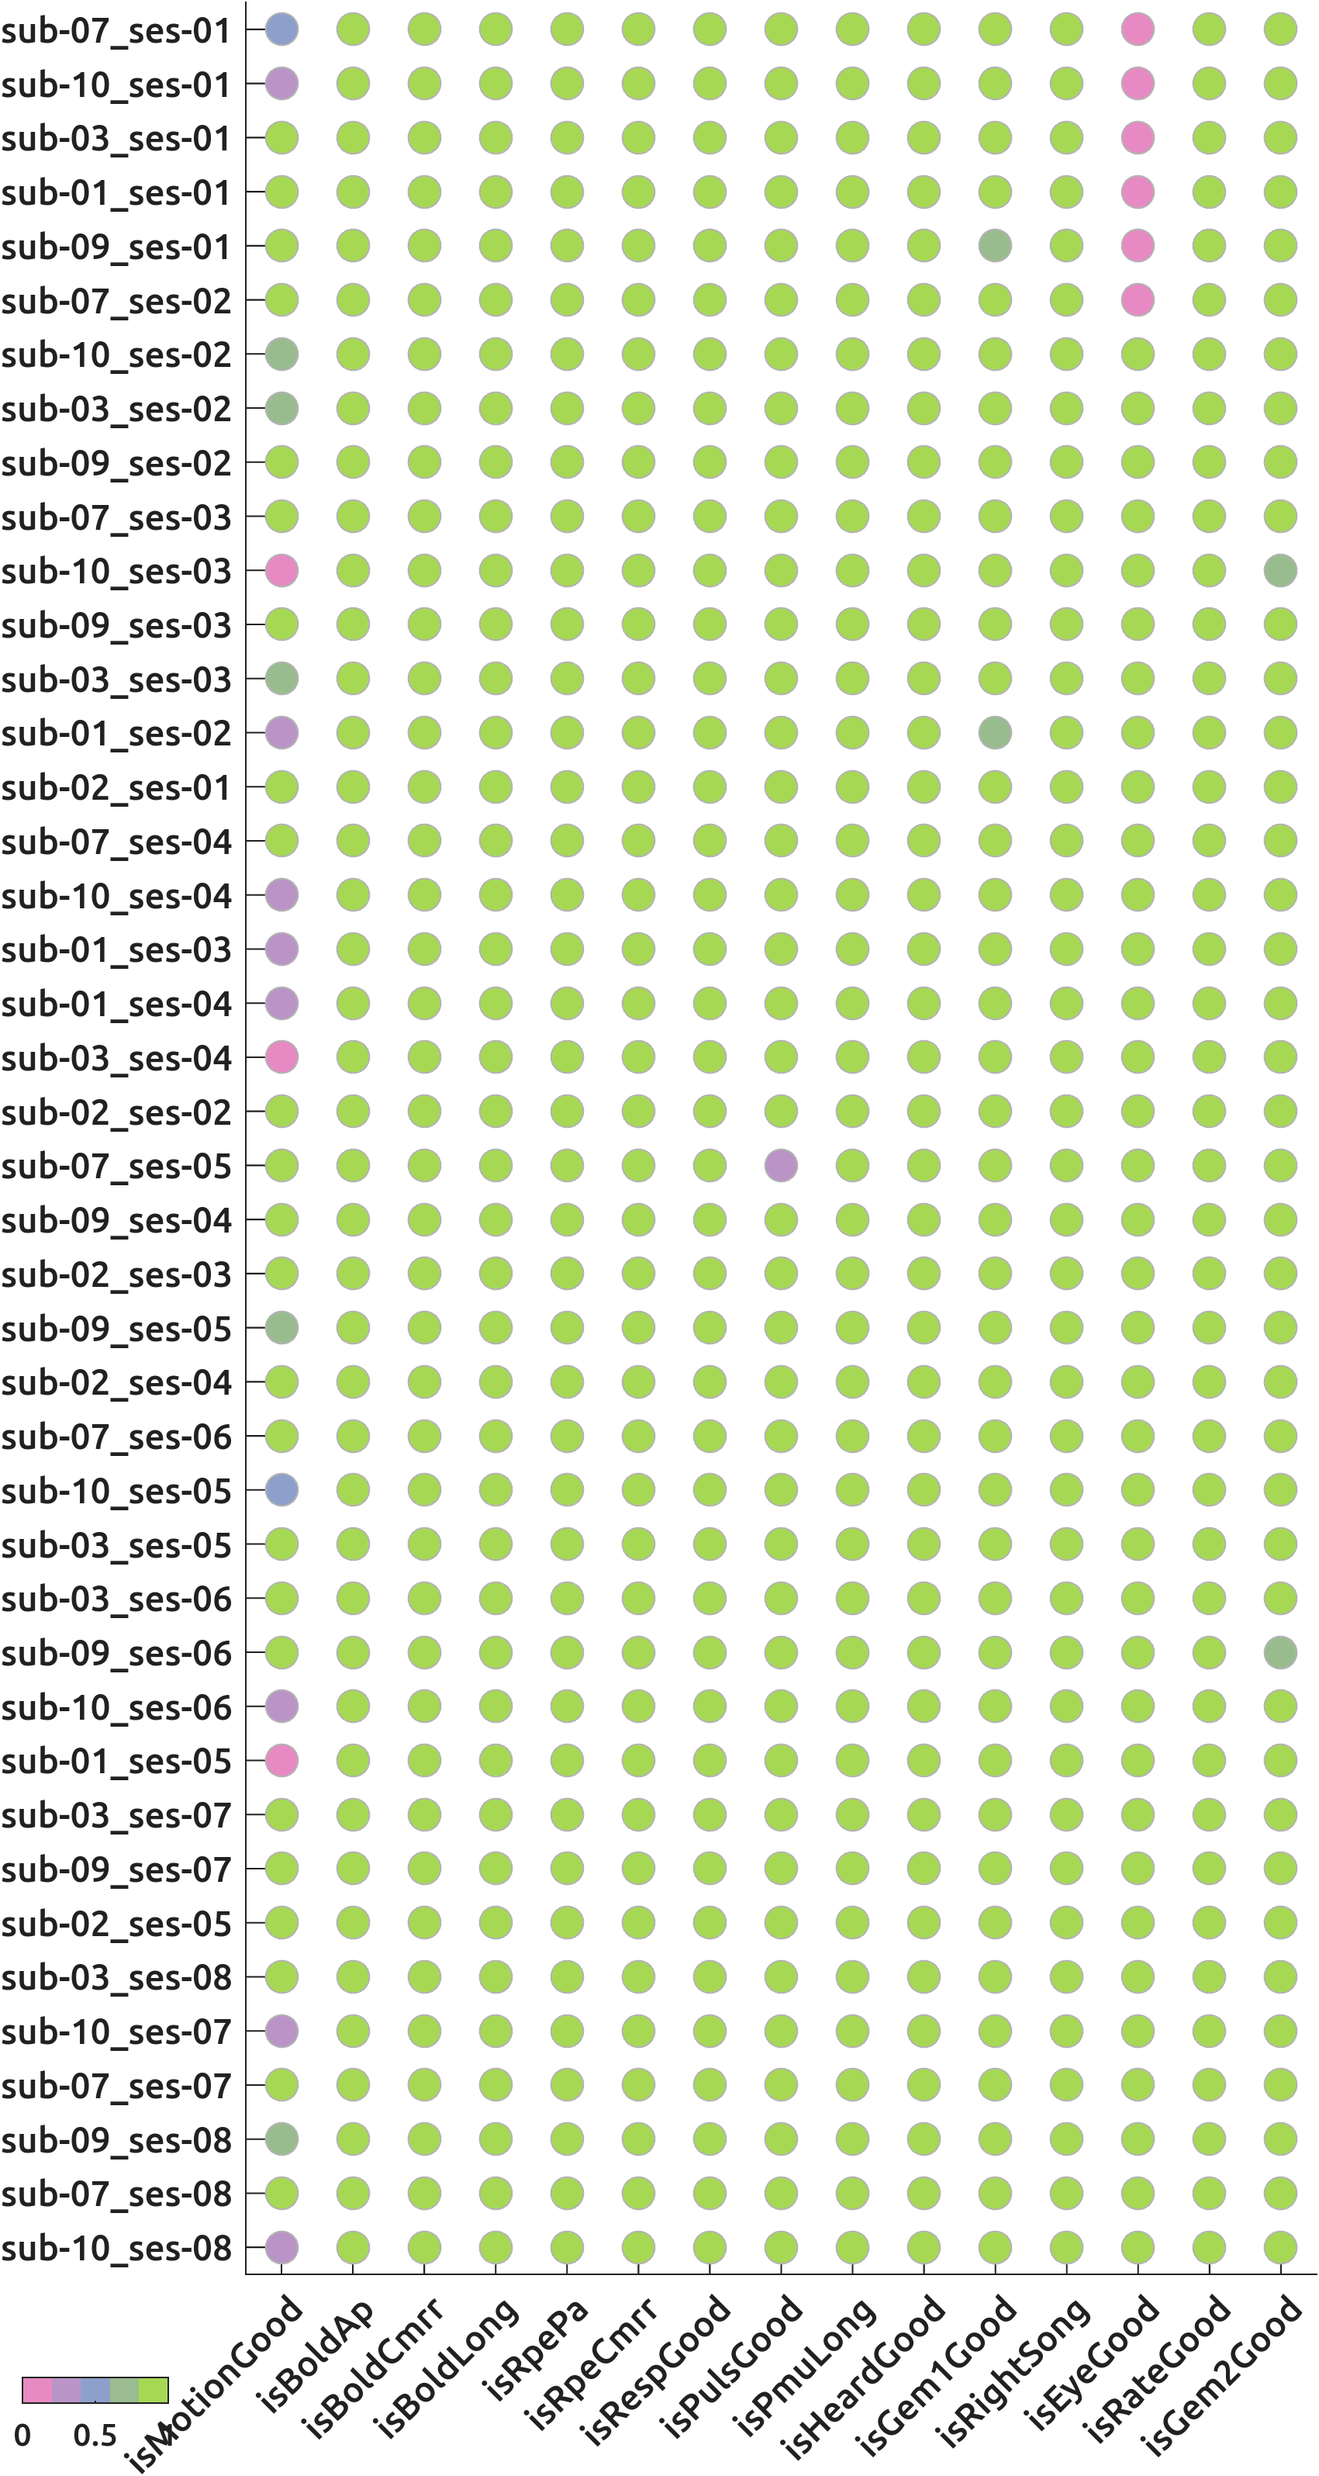
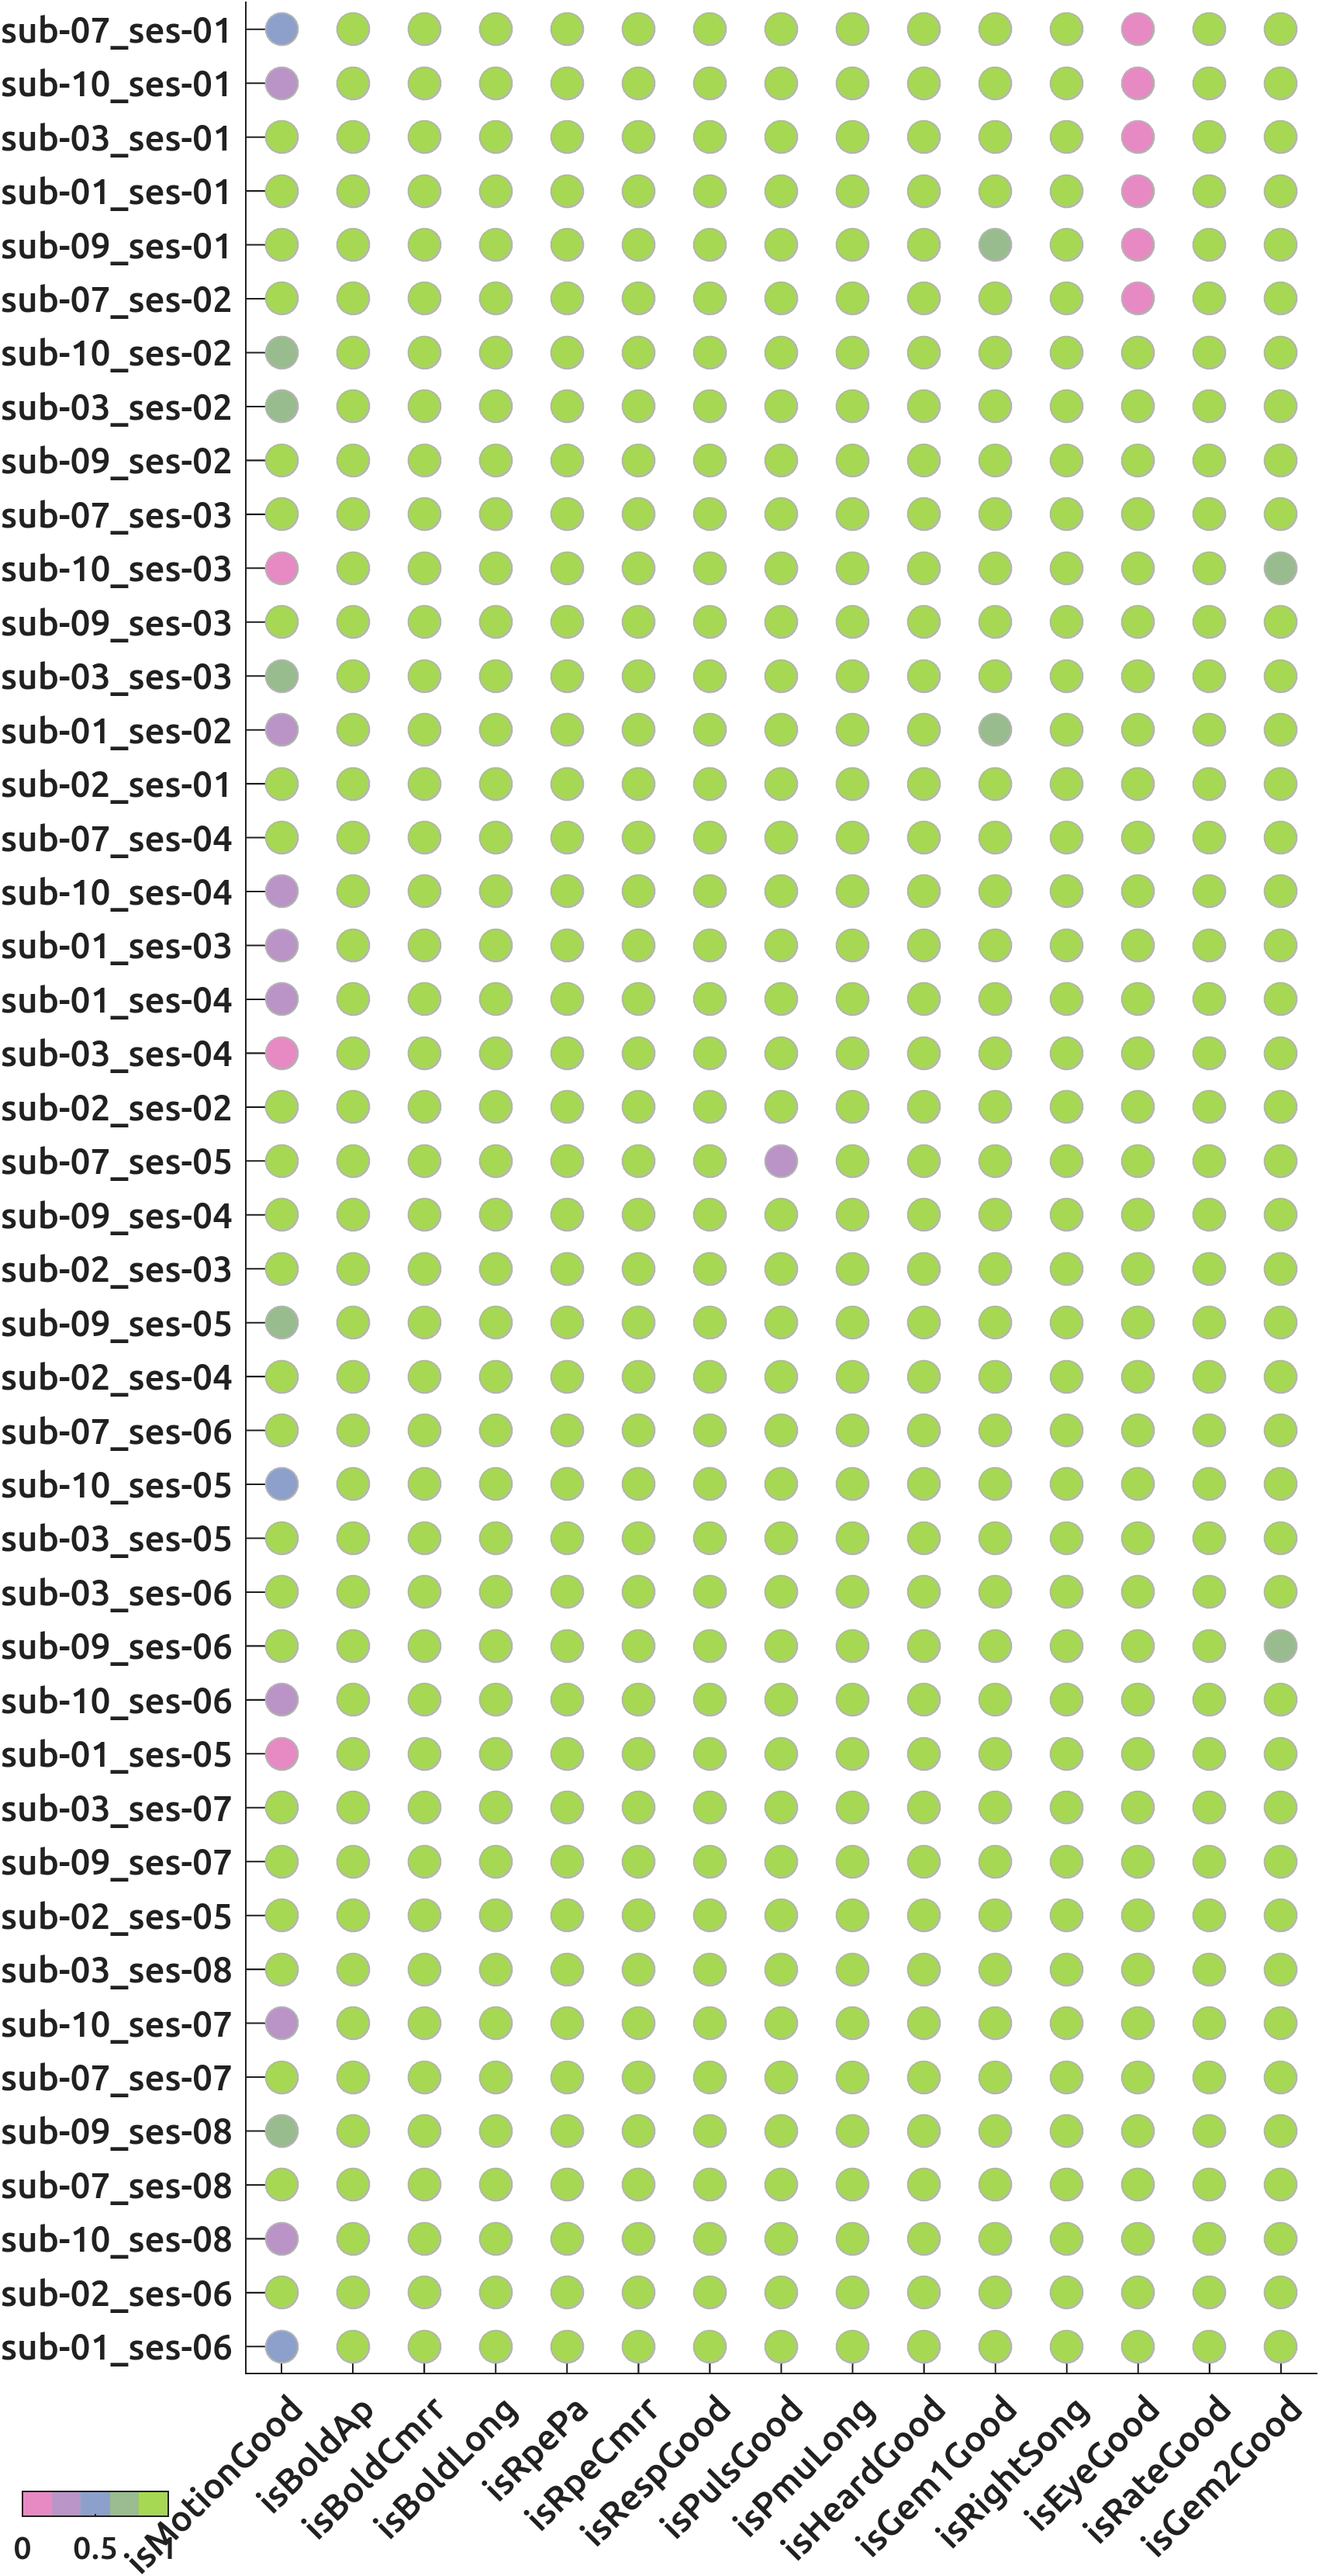
MAF_IMPORT:autoupdate

diff --git a/pages/topup/sub-01.md b/pages/topup/sub-01.md
@@ -5,6 +5,35 @@ nav_order: 1
 parent: topup
 ---
 # topup: sub-01
+### 20260718T1216:sub-01_ses-06
+![slices_run-01](figs/sub-01_ses-06_run-01.png)
+
+![slices_run-02](figs/sub-01_ses-06_run-02.png)
+
+![slices_run-03](figs/sub-01_ses-06_run-03.png)
+
+![slices_run-04](figs/sub-01_ses-06_run-04.png)
+
+![slices_run-05](figs/sub-01_ses-06_run-05.png)
+
+![slices_run-06](figs/sub-01_ses-06_run-06.png)
+
+![slices_run-07](figs/sub-01_ses-06_run-07.png)
+
+![slices_run-08](figs/sub-01_ses-06_run-08.png)
+
+![slices_run-09](figs/sub-01_ses-06_run-09.png)
+
+![slices_run-10](figs/sub-01_ses-06_run-10.png)
+
+![slices_run-11](figs/sub-01_ses-06_run-11.png)
+
+![slices_run-12](figs/sub-01_ses-06_run-12.png)
+
+![slices_run-13](figs/sub-01_ses-06_run-13.png)
+
+![slices_run-14](figs/sub-01_ses-06_run-14.png)
+
 ### 20260703T0952:sub-01_ses-05
 ![slices_run-01](figs/sub-01_ses-05_run-01.png)
 

diff --git a/pages/topup/sub-02.md b/pages/topup/sub-02.md
@@ -5,6 +5,31 @@ nav_order: 2
 parent: topup
 ---
 # topup: sub-02
+### 20260718T1020:sub-02_ses-06
+![slices_run-01](figs/sub-02_ses-06_run-01.png)
+
+![slices_run-02](figs/sub-02_ses-06_run-02.png)
+
+![slices_run-03](figs/sub-02_ses-06_run-03.png)
+
+![slices_run-04](figs/sub-02_ses-06_run-04.png)
+
+![slices_run-05](figs/sub-02_ses-06_run-05.png)
+
+![slices_run-06](figs/sub-02_ses-06_run-06.png)
+
+![slices_run-07](figs/sub-02_ses-06_run-07.png)
+
+![slices_run-08](figs/sub-02_ses-06_run-08.png)
+
+![slices_run-09](figs/sub-02_ses-06_run-09.png)
+
+![slices_run-10](figs/sub-02_ses-06_run-10.png)
+
+![slices_run-11](figs/sub-02_ses-06_run-11.png)
+
+![slices_run-12](figs/sub-02_ses-06_run-12.png)
+
 ### 20260704T1003:sub-02_ses-05
 ![slices_run-01](figs/sub-02_ses-05_run-01.png)
 

diff --git a/index.md b/index.md
@@ -5,7 +5,7 @@ nav_order: 0
 ---
 
 # Overview of the current progress
-Here, the current (17-Jul-2026 11:36:51 `Europe/Berlin`) progress of the fMRI+ data acquisition of the [ManyMusic](https://manymusic.net/) project is shared. Please direct any questions to [Dr. Seung-Goo Kim](mailto:seung-goo.kim@ae.mpg.de).
+Here, the current (19-Jul-2026 13:55:02 `Europe/Berlin`) progress of the fMRI+ data acquisition of the [ManyMusic](https://manymusic.net/) project is shared. Please direct any questions to [Dr. Seung-Goo Kim](mailto:seung-goo.kim@ae.mpg.de).
 
 ## Current acquisition
 

diff --git a/pages/motion/sub-01.md b/pages/motion/sub-01.md
@@ -5,6 +5,9 @@ nav_order: 1
 parent: motion
 ---
 # headmotion: sub-01
+### 20260718T1216:sub-01_ses-06
+![headmotion](figs/sub-01_ses-06.png)
+
 ### 20260703T0952:sub-01_ses-05
 ![headmotion](figs/sub-01_ses-05.png)
 

diff --git a/pages/motion/sub-02.md b/pages/motion/sub-02.md
@@ -5,6 +5,9 @@ nav_order: 2
 parent: motion
 ---
 # headmotion: sub-02
+### 20260718T1020:sub-02_ses-06
+![headmotion](figs/sub-02_ses-06.png)
+
 ### 20260704T1003:sub-02_ses-05
 ![headmotion](figs/sub-02_ses-05.png)
 
